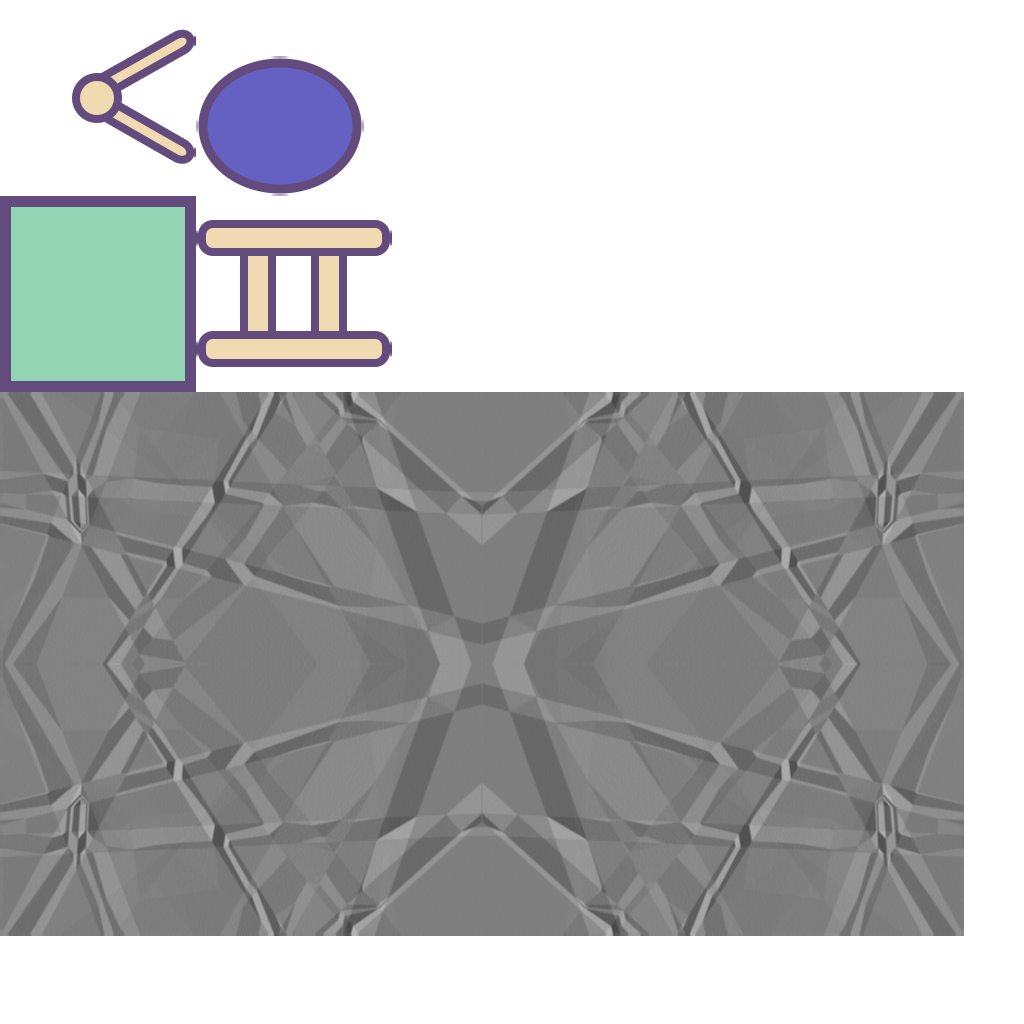
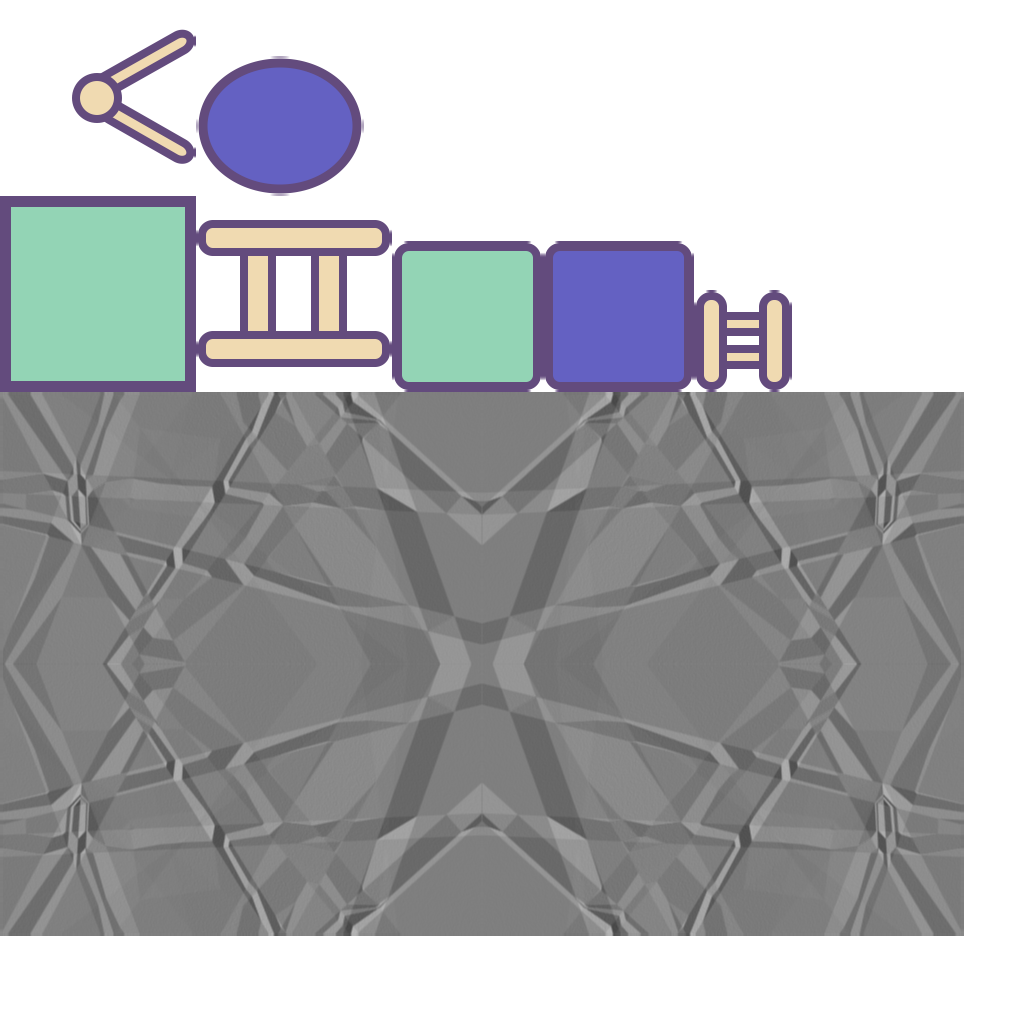
inventory

Changed region(s): [[0.375, 0.2188, 0.7812, 0.4062]]

diff --git a/core/src/main/java/com/distraction/cjspring26/entity/Inventory.java b/core/src/main/java/com/distraction/cjspring26/entity/Inventory.java
@@ -1,0 +1,74 @@
+package com.distraction.cjspring26.entity;
+
+import com.badlogic.gdx.graphics.g2d.SpriteBatch;
+import com.badlogic.gdx.graphics.g2d.TextureRegion;
+import com.distraction.cjspring26.Constants;
+import com.distraction.cjspring26.Context;
+import com.distraction.cjspring26.Utils;
+
+public class Inventory extends Entity {
+
+    private final TextureRegion slot;
+    private final TextureRegion slotSelected;
+    private final TextureRegion ladderInv;
+
+    private final boolean[] inv;
+
+    private int selectedIndex = -1;
+
+    public Inventory(Context context) {
+        slot = context.getImage("slot");
+        slotSelected = context.getImage("slotselected");
+        ladderInv = context.getImage("ladderinv");
+        w = slot.getRegionWidth();
+        h = slot.getRegionHeight();
+
+        inv = new boolean[5];
+        inv[0] = true;
+        inv[1] = true;
+    }
+
+    public boolean isLadderSelected() {
+        if (selectedIndex < 0) return false;
+        return inv[selectedIndex];
+    }
+
+    public boolean canAddLadder() {
+        for (boolean b : inv) {
+            if (!b) return true;
+        }
+        return false;
+    }
+
+    public void removeLadder() {
+        if (selectedIndex < 0) return;
+        if (inv[selectedIndex]) {
+            inv[selectedIndex] = false;
+            selectedIndex = -1;
+            return;
+        }
+    }
+
+    public void addLadder() {
+        for (int i = 0; i < inv.length; i++) {
+            if (!inv[i]) {
+                inv[i] = true;
+                return;
+            }
+        }
+    }
+
+    public void setSelectedIndex(int index) {
+        if (selectedIndex == index - 1) selectedIndex = -1;
+        else selectedIndex = index - 1;
+    }
+
+    @Override
+    public void render(SpriteBatch sb) {
+        for (int i = 0; i < inv.length; i++) {
+            float x = Constants.WIDTH / 2f - ((int) (inv.length / 2) - i) * w * 1.2f;
+            Utils.drawCentered(sb, selectedIndex == i ? slotSelected : slot, x, h);
+            if (inv[i]) Utils.drawCentered(sb, ladderInv, x, h);
+        }
+    }
+}

diff --git a/core/src/main/java/com/distraction/cjspring26/tile/TileMap.java b/core/src/main/java/com/distraction/cjspring26/tile/TileMap.java
@@ -4,6 +4,7 @@ import com.badlogic.gdx.graphics.g2d.SpriteBatch;
 import com.badlogic.gdx.graphics.g2d.TextureRegion;
 import com.distraction.cjspring26.Context;
 import com.distraction.cjspring26.Direction;
+import com.distraction.cjspring26.Utils;
 import com.distraction.cjspring26.entity.Ladder;
 
 import java.util.ArrayList;
@@ -23,19 +24,19 @@ public class TileMap {
         grass = context.getImage("grass");
         ladders = new ArrayList<>();
 
-        map = new int[10][10];
-        map[0][0] = 1;
-        map[0][1] = 1;
-        map[1][1] = 1;
-        map[1][2] = 1;
-        map[2][1] = 1;
-        map[2][2] = 1;
-        map[3][2] = 1;
-        map[2][3] = 1;
-
-        map[3][5] = 1;
-        map[3][6] = 1;
-        map[4][6] = 1;
+        map = new int[][] {
+            {0, 0, 0, 0, 0, 0, 0, 0, 0, 0, 0, 0, 0, 0, 0, 0, 0, 0, 0, 0, 0, 0, 0, 0, 0, 0, 0, 0, 0, 0},
+            {0, 0, 0, 0, 0, 0, 1, 1, 0, 0, 0, 0, 0, 0, 0, 0, 0, 0, 0, 0, 0, 0, 0, 0, 0, 0, 0, 0, 0, 0},
+            {0, 0, 0, 0, 0, 1, 1, 1, 1, 0, 0, 0, 0, 0, 0, 0, 0, 0, 0, 0, 0, 0, 0, 0, 0, 0, 0, 0, 0, 0},
+            {0, 0, 0, 0, 0, 0, 0, 0, 1, 0, 0, 0, 0, 0, 0, 0, 0, 0, 0, 0, 0, 0, 0, 0, 0, 0, 0, 0, 0, 0},
+            {0, 0, 1, 1, 0, 0, 0, 0, 0, 0, 0, 0, 0, 1, 1, 1, 0, 0, 0, 0, 0, 0, 0, 0, 0, 0, 0, 0, 0, 0},
+            {0, 0, 1, 1, 1, 0, 0, 0, 1, 1, 0, 0, 0, 1, 1, 1, 1, 0, 0, 0, 0, 0, 0, 0, 0, 0, 0, 0, 0, 0},
+            {0, 0, 1, 1, 1, 0, 0, 0, 1, 1, 1, 0, 1, 1, 1, 1, 1, 0, 0, 0, 0, 0, 0, 0, 0, 0, 0, 0, 0, 0},
+            {0, 0, 0, 1, 1, 0, 0, 1, 1, 1, 0, 0, 1, 1, 1, 1, 1, 0, 0, 0, 0, 0, 0, 0, 0, 0, 0, 0, 0, 0},
+            {0, 0, 0, 0, 1, 1, 0, 1, 0, 0, 0, 0, 0, 1, 1, 1, 0, 0, 0, 0, 0, 0, 0, 0, 0, 0, 0, 0, 0, 0},
+            {0, 0, 0, 0, 0, 0, 0, 0, 0, 0, 0, 0, 0, 1, 1, 0, 0, 0, 0, 0, 0, 0, 0, 0, 0, 0, 0, 0, 0, 0},
+        };
+        Utils.flip(map);
     }
 
     public boolean canBuild(int row, int col) {

diff --git a/core/src/main/java/com/distraction/cjspring26/screens/PlayScreen.java b/core/src/main/java/com/distraction/cjspring26/screens/PlayScreen.java
@@ -6,6 +6,7 @@ import com.badlogic.gdx.graphics.Color;
 import com.distraction.cjspring26.Constants;
 import com.distraction.cjspring26.Context;
 import com.distraction.cjspring26.entity.Background;
+import com.distraction.cjspring26.entity.Inventory;
 import com.distraction.cjspring26.entity.Player;
 import com.distraction.cjspring26.tile.TileMap;
 
@@ -30,7 +31,7 @@ public class PlayScreen extends Screen {
         out = new Transition(context, Transition.Type.CHECKERED_OUT, 0.5f);
 
         context.audio.stopMusic();
-        context.audio.playMusic("main", 0.5f, true);
+        context.audio.playMusic("main", 0.3f, true);
     }
 
     @Override
@@ -41,9 +42,12 @@ public class PlayScreen extends Screen {
         player.down = Gdx.input.isKeyPressed(Input.Keys.DOWN);
         player.left = Gdx.input.isKeyPressed(Input.Keys.LEFT);
         player.right = Gdx.input.isKeyPressed(Input.Keys.RIGHT);
-        if (Gdx.input.isKeyJustPressed(Input.Keys.SPACE)) {
-            player.action();
-        }
+        if (Gdx.input.isKeyJustPressed(Input.Keys.SPACE)) player.action();
+        if (Gdx.input.isKeyJustPressed(Input.Keys.NUM_1)) player.inventory.setSelectedIndex(1);
+        if (Gdx.input.isKeyJustPressed(Input.Keys.NUM_2)) player.inventory.setSelectedIndex(2);
+        if (Gdx.input.isKeyJustPressed(Input.Keys.NUM_3)) player.inventory.setSelectedIndex(3);
+        if (Gdx.input.isKeyJustPressed(Input.Keys.NUM_4)) player.inventory.setSelectedIndex(4);
+        if (Gdx.input.isKeyJustPressed(Input.Keys.NUM_5)) player.inventory.setSelectedIndex(5);
     }
 
     @Override
@@ -72,6 +76,10 @@ public class PlayScreen extends Screen {
         player.render(sb);
 
         textureBg.render(sb);
+
+        sb.setProjectionMatrix(uiCam.combined);
+        sb.setColor(Color.WHITE);
+        player.inventory.render(sb);
 
         in.render(sb);
         out.render(sb);

diff --git a/core/src/main/java/com/distraction/cjspring26/entity/Player.java b/core/src/main/java/com/distraction/cjspring26/entity/Player.java
@@ -16,11 +16,15 @@ public class Player extends TileEntity {
 
     public boolean up, down, left, right;
 
+    public Inventory inventory;
+
     public Player(Context context, TileMap tileMap) {
         super(tileMap);
         image = context.getImage("player");
 
-        setTile(1, 1);
+        setTile(0, 14);
+
+        inventory = new Inventory(context);
     }
 
     @Override
@@ -32,9 +36,13 @@ public class Player extends TileEntity {
 
     public void action() {
         if (moving) return;
-        if (tileMap.isAnchor(row, col)) {
+        boolean isAnchor = tileMap.isAnchor(row, col);
+        boolean canAdd = inventory.canAddLadder();
+        System.out.println(isAnchor + ", " + canAdd);
+        if (tileMap.isAnchor(row, col) && inventory.canAddLadder()) {
             tileMap.removeAnchor(row, col);
-        } else {
+            inventory.addLadder();
+        } else if (inventory.isLadderSelected()) {
             int r = row;
             int c = col;
             if (direction == Direction.UP) r++;
@@ -43,6 +51,7 @@ public class Player extends TileEntity {
             else if (direction == Direction.RIGHT) c++;
             if (tileMap.canBuild(r, c)) {
                 tileMap.addAnchor(row, col, direction);
+                inventory.removeLadder();
             }
         }
     }

diff --git a/core/src/main/java/com/distraction/cjspring26/Utils.java b/core/src/main/java/com/distraction/cjspring26/Utils.java
@@ -25,4 +25,13 @@ public class Utils {
         );
     }
 
+    public static void flip(int[][] map) {
+        int numRows = map.length;
+        for (int i = 0; i < numRows / 2; i++) {
+            int[] temp = map[i];
+            map[i] = map[numRows - 1 - i];
+            map[numRows - 1 - i] = temp;
+        }
+    }
+
 }
